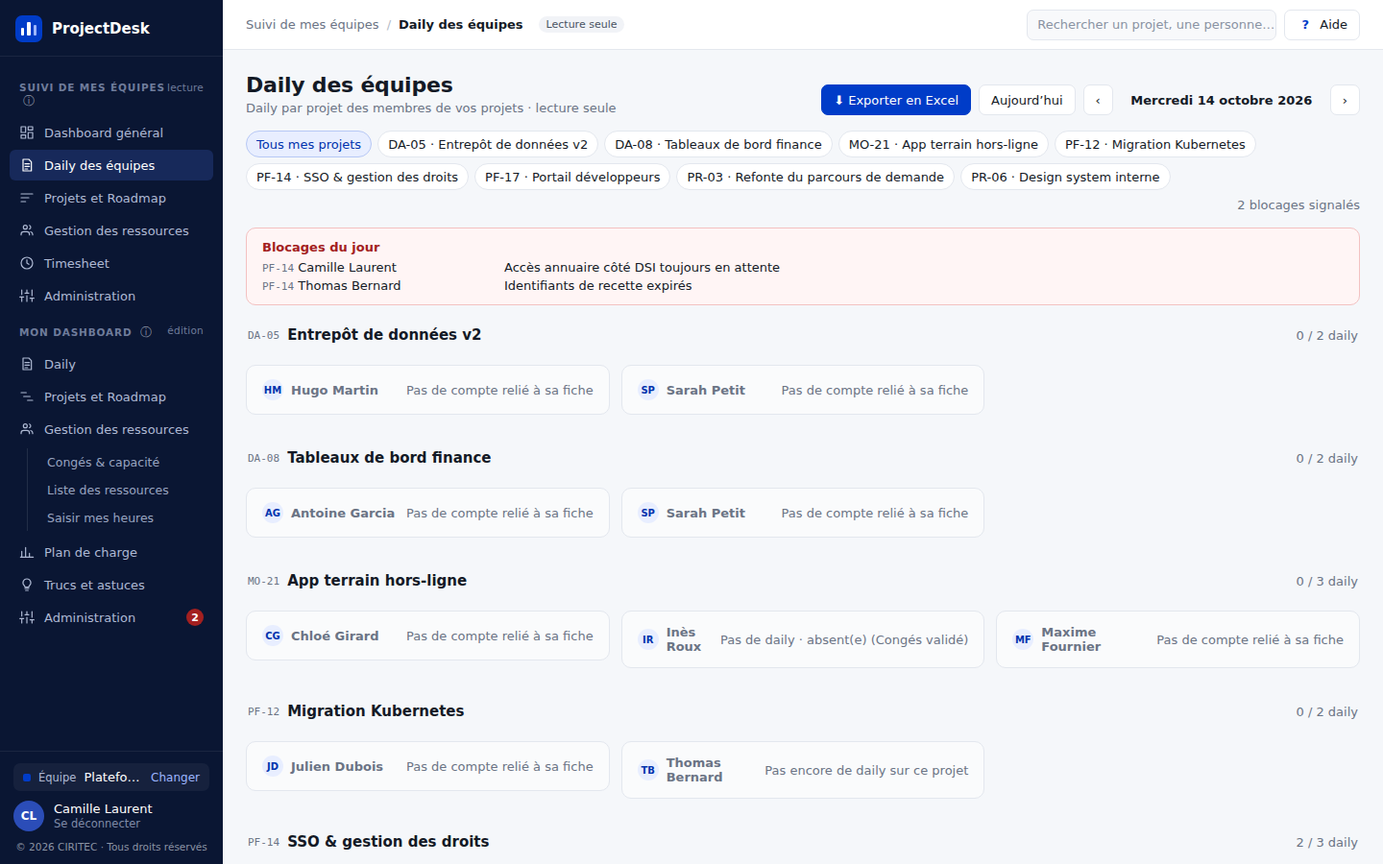
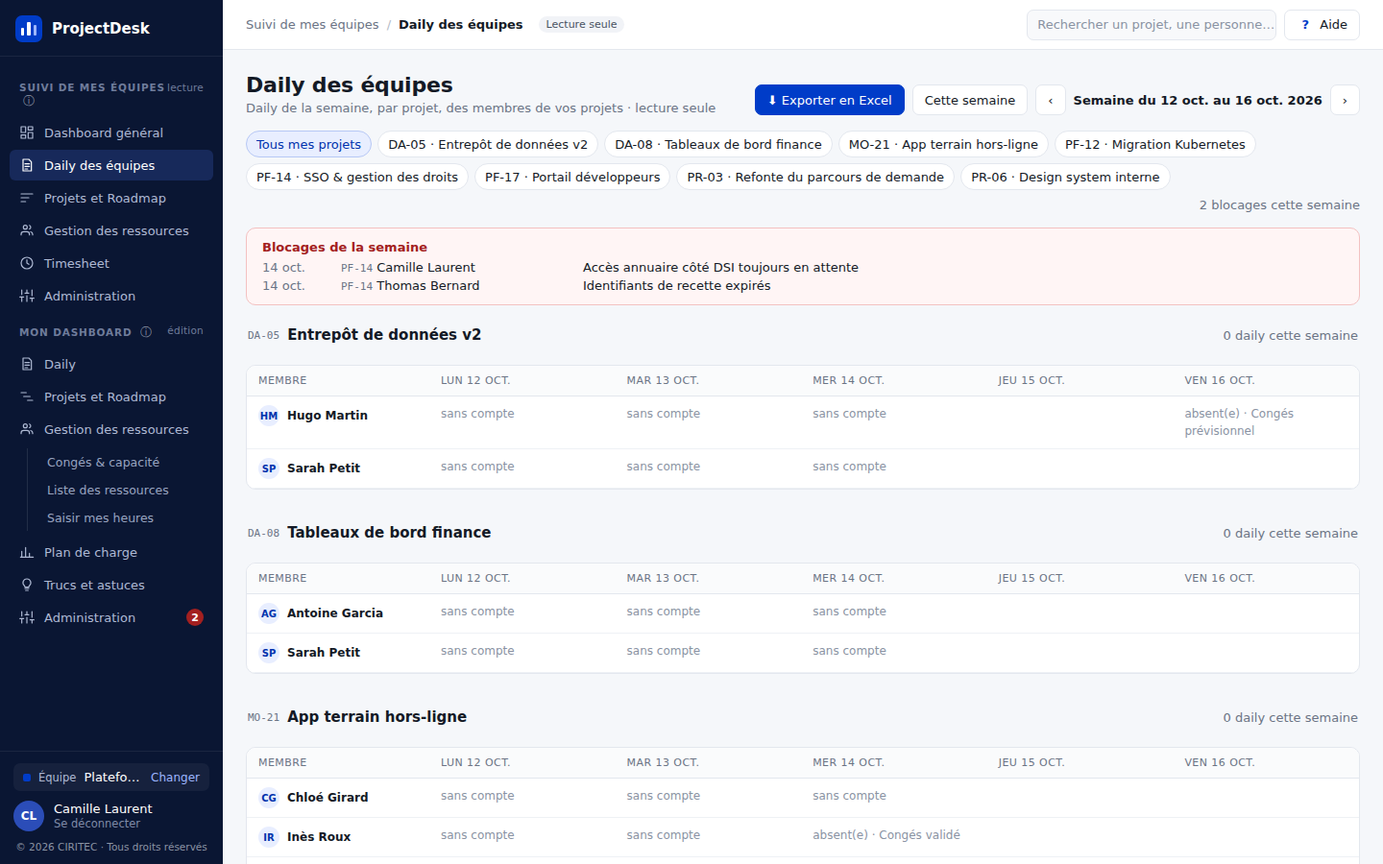
Daily des équipes à la semaine (membre × jour, blocages de la semaine) — DAT 2.13
Claude-Session: https://claude.ai/code/session_0187v8SY8uiT6dnWqjjqJYb6

diff --git a/app/js/ecrans/daily-equipes.js b/app/js/ecrans/daily-equipes.js
@@ -1,11 +1,11 @@
 /* ============================================================
    Suivi de mes équipes › Daily des équipes — daily PAR PROJET (maquette docs/maquettes/daily-par-projet/)
-   Pour le jour choisi, les dailies des projets que je peux lire (peutLireDailyProjet, même
+   Pour la semaine choisie (lundi → vendredi ouvrés, 2026-10-14), les dailies des projets que je peux lire (peutLireDailyProjet, même
    règle qu'en base) : les projets où je suis affecté(e) ; le responsable d'une unité voit
    tous les projets de son unité et des unités rattachées (ex. Anne, Applications) ; un
-   administrateur voit tout. Filtre par projet, « Blocages du jour » en tête, puis une carte
-   par membre (affecté hors Lecteur, présent ce jour-là) : sa note du projet, ou « pas de
-   daily » avec son absence éventuelle (Congés & capacité). Lecture seule.
+   administrateur voit tout. Filtre par projet, « Blocages de la semaine » en tête, puis par
+   projet un tableau membre × jour (affecté hors Lecteur, présent) : sa note, ou le motif
+   (absence de Congés & capacité, pas de daily, sans compte). Lecture seule.
    Export Excel (maquette docs/maquettes/export-daily-excel/) : fenêtre Modale.exportDaily,
    fichier fabriqué par Excel (excel.js) ; mêmes projets et mêmes règles qu'à l'écran.
    ============================================================ */
@@ -17,10 +17,22 @@ Ecrans.dailyEquipes = {
   jour: () => ui('dailyEquipes', { jour: Calculs.aujourdhui() }).jour,
   auChargement: () => recharger('notesProjet'),
 
+  /* Semaine affichée (porteur, 2026-10-14 : « affiche uniquement les daily de la semaine ») : les jours
+     ouvrés (hors week-end et fériés) de la semaine du jour choisi, du lundi au vendredi */
+  joursSemaine() {
+    const lundi = Calculs.lundi(this.jour());
+    return Calculs.joursOuvresEntre(lundi, Calculs.ajouterJours(lundi, 4), feries());
+  },
   // Membres d'un projet attendus au daily ce jour-là : affectés hors Lecteur et présents (arrivée / fin)
   membres(p, jour) {
     return etat.d.affectations.filter(a => a.projetId === p.id && a.role !== ROLES_PROJET.LECTEUR && estPresenteSur(a.ressourceId, jour))
       .map(a => ressource(a.ressourceId)).sort((x, y) => x.nom.localeCompare(y.nom));
+  },
+  // Membres présents au moins un jour de la semaine
+  membresSemaine(p, jours) {
+    const vus = new Map();
+    jours.forEach(j => this.membres(p, j).forEach(r => vus.set(r.id, r)));
+    return [...vus.values()].sort((x, y) => x.nom.localeCompare(y.nom));
   },
 
   // Note affichée : rubriques en gras, rubrique « Blocages » en rouge (sauf « Aucun »)
@@ -32,61 +44,70 @@ Ecrans.dailyEquipes = {
       return (r.titre ? `<b${style}>${esc(r.titre)}</b><br>` : '') + r.lignes.map(l => `<span${style}>- ${esc(l)}</span><br>`).join('');
     }).join('');
   },
+  // Note d'un membre sur un projet un jour donné (vide = pas de daily)
+  noteDe(r, p, jour) {
+    const n = noteProjet(auteurDaily(r), p.id, jour);
+    return n && n.texte.trim() ? n : null;
+  },
 
   rendre() {
-    const esc = C.esc, jour = this.jour();
-    const entete = C.entete('Daily des équipes', 'Daily par projet des membres de vos projets · lecture seule', `
+    const esc = C.esc, jours = this.joursSemaine(), lundi = Calculs.lundi(this.jour());
+    const libelle = `Semaine du ${Calculs.formatCourt(lundi)} au ${Calculs.formatAvecAnnee(Calculs.ajouterJours(lundi, 4))}`;
+    const entete = C.entete('Daily des équipes', 'Daily de la semaine, par projet, des membres de vos projets · lecture seule', `
       ${projetsDailyVisibles().length ? '<button class="btn primaire" data-action="ouvrirExportDaily">⬇ Exporter en Excel</button>' : ''}
-      <button class="btn" data-action="dailyEquipesAujourdhui">Aujourd’hui</button>
-      <button class="btn" data-action="dailyEquipesDecaler" data-sens="-1" title="Jour précédent">‹</button>
-      <b style="min-width:210px;text-align:center">${Calculs.formatLong(jour)}</b>
-      <button class="btn" data-action="dailyEquipesDecaler" data-sens="1" title="Jour suivant">›</button>`);
+      <button class="btn" data-action="dailyEquipesAujourdhui">Cette semaine</button>
+      <button class="btn" data-action="dailyEquipesDecaler" data-sens="-1" title="Semaine précédente">‹</button>
+      <b style="min-width:240px;text-align:center">${libelle}</b>
+      <button class="btn" data-action="dailyEquipesDecaler" data-sens="1" title="Semaine suivante">›</button>`);
     const visibles = projetsDailyVisibles();
     if (!visibles.length) return `<div class="ecran">${entete}<div class="carte">${C.vide('Aucun projet en cours dont vous pouvez lire le daily.')}</div></div>`;
 
     const filtre = ui('dailyEquipes', { projet: 'tous' }).projet;
     const projets = visibles.filter(p => filtre === 'tous' || p.id === filtre);
-    const noteDe = (r, p) => noteProjet(auteurDaily(r), p.id, jour);
-    const remplie = n => !!n && !!n.texte.trim();
-
-    // Blocages du jour, tous projets affichés
-    const blocages = projets.flatMap(p => this.membres(p, jour).filter(r => remplie(noteDe(r, p)))
-      .flatMap(r => Calculs.blocagesDaily(noteDe(r, p).texte).map(texte => ({ code: p.code, nom: r.nom, texte }))));
-
-    const puce = (id, libelle) => `<button class="puce${filtre === id ? ' active' : ''}" data-action="filtrerDailyEquipes" data-id="${id}">${esc(libelle)}</button>`;
+    const blocages = this.blocagesSemaine(projets, jours);
+    const puce = (id, nom) => `<button class="puce${filtre === id ? ' active' : ''}" data-action="filtrerDailyEquipes" data-id="${id}">${esc(nom)}</button>`;
     const puces = (visibles.length > 1 ? puce('tous', 'Tous mes projets') : '') + visibles.map(p => puce(p.id, `${p.code} · ${p.nom}`)).join('');
-
-    // Carte d'un membre : sa note du projet, ou « pas de daily » (avec son absence du jour si elle est posée)
-    const carte = (r, p) => {
-      const n = noteDe(r, p);
-      if (remplie(n)) return `<div class="carte encart-moyen">
-        <div class="ligne-flex" style="margin-bottom:8px">${C.avatar(r.nom)}<b class="extensible">${esc(r.nom)}</b>${C.code(p.code)}</div>
-        <div style="line-height:1.55">${this.note(n.texte)}</div></div>`;
-      const absence = absenceDe(r.id, jour);
-      const motif = absence ? `Pas de daily · absent(e) (${esc(absence.type)})` : r.userId ? 'Pas encore de daily sur ce projet' : 'Pas de compte relié à sa fiche';
-      return `<div class="carte" style="padding:14px 16px;background:var(--fond-entete)"><div class="ligne-flex">${C.avatar(r.nom)}
-        <b style="flex:1;color:var(--discret)">${esc(r.nom)}</b><span class="discret">${motif}</span></div></div>`;
-    };
-    const section = p => {
-      const membres = this.membres(p, jour), avec = membres.filter(r => remplie(noteDe(r, p)));
-      return `<div class="carte-titre" style="padding:6px 2px;border:0"><span class="ligne-flex">${C.code(p.code)}<h2 style="font-size:15px">${esc(p.nom)}</h2></span>
-          <span class="discret">${avec.length} / ${membres.length} daily</span></div>
-        <div style="display:grid;grid-template-columns:repeat(3,minmax(0,1fr));gap:12px;align-items:start;margin-bottom:14px">
-          ${[...avec, ...membres.filter(r => !avec.includes(r))].map(r => carte(r, p)).join('') || C.vide('Aucun membre présent ce jour.')}</div>`;
-    };
-
     return `
     <div class="ecran">
       ${entete}
       <div class="ligne-flex" style="flex-wrap:wrap"><div class="puces">${puces}</div><span class="extensible"></span>
-        <span class="discret">${blocages.length} blocage${blocages.length > 1 ? 's' : ''} signalé${blocages.length > 1 ? 's' : ''}</span></div>
-      ${blocages.length ? `<div class="carte encart-compact encart-blocages"><b class="texte-danger">Blocages du jour</b>
-        <div style="margin-top:6px;display:grid;grid-template-columns:240px 1fr;gap:4px 12px">${blocages.map(b => `<span>
-          ${C.code(b.code)} ${esc(b.nom)}</span><span>${esc(b.texte)}</span>`).join('')}</div></div>` : ''}
-      ${projets.map(section).join('')}
-      <div class="discret texte-12">Notes conservées à l’affichage sur ${JOURS_DAILY} jours. Vous voyez le daily de vos projets ;
+        <span class="discret">${blocages.length} blocage${blocages.length > 1 ? 's' : ''} cette semaine</span></div>
+      ${blocages.length ? `<div class="carte encart-compact encart-blocages"><b class="texte-danger">Blocages de la semaine</b>
+        <div style="margin-top:6px;display:grid;grid-template-columns:70px 240px 1fr;gap:4px 12px">${blocages.map(b => `
+          <span class="discret">${Calculs.formatCourt(b.jour)}</span><span>${C.code(b.code)} ${esc(b.nom)}</span><span>${esc(b.texte)}</span>`).join('')}</div></div>` : ''}
+      ${projets.map(p => this.sectionProjet(p, jours)).join('')}
+      <div class="discret texte-12">Notes conservées à l’affichage sur ${JOURS_DAILY} jours (au-delà : export Excel). Vous voyez le daily de vos projets ;
         le responsable d’une unité voit tous les projets de son unité.</div>
     </div>`;
+  },
+  // Blocages des notes de la semaine, tous projets affichés, du plus récent au plus ancien
+  blocagesSemaine(projets, jours) {
+    return [...jours].reverse().flatMap(jour => projets.flatMap(p => this.membres(p, jour).flatMap(r => {
+      const n = this.noteDe(r, p, jour);
+      return n ? Calculs.blocagesDaily(n.texte).map(texte => ({ jour, code: p.code, nom: r.nom, texte })) : [];
+    })));
+  },
+  /* Un projet : une ligne par membre, une colonne par jour ouvré de la semaine. Case : sa note, ou
+     le motif de l'absence de daily (absent(e), pas de daily, fiche sans compte) ; rien les jours à venir ou hors présence */
+  sectionProjet(p, jours) {
+    const esc = C.esc, membres = this.membresSemaine(p, jours), JOURS = ['Lun', 'Mar', 'Mer', 'Jeu', 'Ven'];
+    const nbNotes = membres.reduce((n, r) => n + jours.filter(j => this.noteDe(r, p, j)).length, 0);
+    const caseDe = (r, jour) => {
+      const n = this.noteDe(r, p, jour);
+      if (n) return `<td>${this.note(n.texte)}</td>`;
+      const absence = absenceDe(r.id, jour);
+      const aVenir = jour > Calculs.aujourdhui() && !absence;
+      const motif = aVenir || !estPresenteSur(r.id, jour) ? '' : absence ? `absent(e) · ${esc(absence.type)}` : r.userId ? '—' : 'sans compte';
+      return `<td class="pale texte-12">${motif}</td>`;
+    };
+    const entetes = jours.map(j => `<th>${JOURS[(Calculs.depuisIso(j).getDay() + 6) % 7]} ${Calculs.formatCourt(j)}</th>`).join('');
+    const lignes = membres.map(r => `<tr><td class="nowrap"><span class="ligne-flex">${C.avatar(r.nom)}<b>${esc(r.nom)}</b></span></td>
+      ${jours.map(j => caseDe(r, j)).join('')}</tr>`).join('');
+    return `<div class="carte-titre" style="padding:6px 2px;border:0"><span class="ligne-flex">${C.code(p.code)}<h2 style="font-size:15px">${esc(p.nom)}</h2></span>
+        <span class="discret">${nbNotes} daily cette semaine</span></div>
+      <div class="carte defilement-x" style="margin-bottom:14px;padding:0"><table class="tableau tableau-daily-semaine">
+        <thead><tr><th>Membre</th>${entetes}</tr></thead>
+        <tbody>${lignes || `<tr><td colspan="${jours.length + 1}">${C.vide('Aucun membre présent cette semaine.')}</td></tr>`}</tbody></table></div>`;
   }
 };
 
@@ -181,5 +202,6 @@ Object.assign(Actions, {
 
   filtrerDailyEquipes: d => majUi('dailyEquipes', { projet: d.id }),
   dailyEquipesAujourdhui: () => majUi('dailyEquipes', { jour: Calculs.aujourdhui() }),
-  dailyEquipesDecaler: d => majUi('dailyEquipes', { jour: Ecrans.daily.decaler(Ecrans.dailyEquipes.jour(), Number(d.sens)) })
+  // Semaine précédente / suivante
+  dailyEquipesDecaler: d => majUi('dailyEquipes', { jour: Calculs.ajouterJours(Ecrans.dailyEquipes.jour(), 7 * Number(d.sens)) })
 });

diff --git a/app/index.html b/app/index.html
@@ -11,7 +11,7 @@
 <link href="https://fonts.googleapis.com/css2?family=IBM+Plex+Sans:wght@400;500;600;700&family=IBM+Plex+Mono:wght@400;500&display=swap" rel="stylesheet">
 <!-- ?v= : version des fichiers (= version du DAT), à changer à chaque livraison : force le navigateur
      à recharger le code au lieu de réutiliser une ancienne copie en mémoire. -->
-<link rel="stylesheet" href="css/theme.css?v=2.12">
+<link rel="stylesheet" href="css/theme.css?v=2.13">
 </head>
 <body>
   <!-- Toute l'interface est dessinée dans #app par js/coquille.js et js/ecrans/*.js -->
@@ -19,33 +19,33 @@
   <div id="notification" class="notification" role="status"></div>
 
   <!-- Ordre de chargement : configuration, outils, état, puis écrans (qui s'enregistrent dans Ecrans) -->
-  <script src="js/config.js?v=2.12"></script>
-  <script src="js/api.js?v=2.12"></script>
-  <script src="js/calculs.js?v=2.12"></script>
-  <script src="js/etat.js?v=2.12"></script>
-  <script src="js/composants.js?v=2.12"></script>
-  <script src="js/coquille.js?v=2.12"></script>
-  <script src="js/panneau-projet.js?v=2.12"></script>
-  <script src="js/modale.js?v=2.12"></script>
-  <script src="js/excel.js?v=2.12"></script>
-  <script src="js/roles.js?v=2.12"></script>
-  <script src="js/simulation.js?v=2.12"></script>
-  <script src="js/ecrans/connexion.js?v=2.12"></script>
-  <script src="js/ecrans/choix-equipe.js?v=2.12"></script>
-  <script src="js/ecrans/dashboard.js?v=2.12"></script>
-  <script src="js/ecrans/projets.js?v=2.12"></script>
-  <script src="js/ecrans/ressources.js?v=2.12"></script>
-  <script src="js/ecrans/administration.js?v=2.12"></script>
-  <script src="js/ecrans/timesheet.js?v=2.12"></script>
-  <script src="js/ecrans/daily-equipes.js?v=2.12"></script>
-  <script src="js/ecrans/daily.js?v=2.12"></script>
-  <script src="js/ecrans/mes-projets.js?v=2.12"></script>
-  <script src="js/ecrans/conges.js?v=2.12"></script>
-  <script src="js/ecrans/capacite.js?v=2.12"></script>
-  <script src="js/ecrans/liste-ressources.js?v=2.12"></script>
-  <script src="js/ecrans/mon-timesheet.js?v=2.12"></script>
-  <script src="js/ecrans/previsionnel.js?v=2.12"></script>
-  <script src="js/ecrans/mon-admin.js?v=2.12"></script>
-  <script src="js/ecrans/astuces.js?v=2.12"></script>
+  <script src="js/config.js?v=2.13"></script>
+  <script src="js/api.js?v=2.13"></script>
+  <script src="js/calculs.js?v=2.13"></script>
+  <script src="js/etat.js?v=2.13"></script>
+  <script src="js/composants.js?v=2.13"></script>
+  <script src="js/coquille.js?v=2.13"></script>
+  <script src="js/panneau-projet.js?v=2.13"></script>
+  <script src="js/modale.js?v=2.13"></script>
+  <script src="js/excel.js?v=2.13"></script>
+  <script src="js/roles.js?v=2.13"></script>
+  <script src="js/simulation.js?v=2.13"></script>
+  <script src="js/ecrans/connexion.js?v=2.13"></script>
+  <script src="js/ecrans/choix-equipe.js?v=2.13"></script>
+  <script src="js/ecrans/dashboard.js?v=2.13"></script>
+  <script src="js/ecrans/projets.js?v=2.13"></script>
+  <script src="js/ecrans/ressources.js?v=2.13"></script>
+  <script src="js/ecrans/administration.js?v=2.13"></script>
+  <script src="js/ecrans/timesheet.js?v=2.13"></script>
+  <script src="js/ecrans/daily-equipes.js?v=2.13"></script>
+  <script src="js/ecrans/daily.js?v=2.13"></script>
+  <script src="js/ecrans/mes-projets.js?v=2.13"></script>
+  <script src="js/ecrans/conges.js?v=2.13"></script>
+  <script src="js/ecrans/capacite.js?v=2.13"></script>
+  <script src="js/ecrans/liste-ressources.js?v=2.13"></script>
+  <script src="js/ecrans/mon-timesheet.js?v=2.13"></script>
+  <script src="js/ecrans/previsionnel.js?v=2.13"></script>
+  <script src="js/ecrans/mon-admin.js?v=2.13"></script>
+  <script src="js/ecrans/astuces.js?v=2.13"></script>
 </body>
 </html>

diff --git a/tests/parcours.js b/tests/parcours.js
@@ -202,7 +202,15 @@ const verifier = (nom, condition, detail = '') => { resultats.push({ nom, ok: !!
     // Daily des équipes PAR PROJET (migration 018) : notes du projet, blocages, règle de lecture
     await aller('dailyEquipes'); await page.waitForTimeout(300); await capture('17-daily-equipes');
     verifier('Daily des équipes : note d’un coéquipier sur un projet commun visible', (await texte()).includes('Mapping des rôles applicatifs'));
-    verifier('Daily des équipes : blocages du jour regroupés (avec le projet)', (await texte()).includes('Blocages du jour') && (await texte()).includes('Identifiants de recette expirés'));
+    verifier('Daily des équipes : blocages de la semaine regroupés (avec le projet)', (await texte()).includes('Blocages de la semaine') && (await texte()).includes('Identifiants de recette expirés'));
+    // À la semaine (porteur, 2026-10-14) : une colonne par jour ouvré, ‹ › change de semaine
+    verifier('Daily des équipes : une colonne par jour ouvré de la semaine', await page.evaluate(() =>
+      document.querySelector('.tableau-daily-semaine thead tr').children.length === Ecrans.dailyEquipes.joursSemaine().length + 1));
+    await page.click('[data-action="dailyEquipesDecaler"][data-sens="-1"]'); await page.waitForTimeout(200);
+    const semainePrecedente = await page.evaluate(() => Calculs.lundi(Ecrans.dailyEquipes.jour()) === Calculs.ajouterJours(Calculs.lundi(Calculs.aujourdhui()), -7)
+      && !document.body.textContent.includes('Mapping des rôles applicatifs'));
+    await page.click('[data-action="dailyEquipesAujourdhui"]'); await page.waitForTimeout(200);
+    verifier('Daily des équipes : semaine précédente puis « Cette semaine »', semainePrecedente && (await texte()).includes('Mapping des rôles applicatifs'));
     verifier('Daily des équipes : seulement mes projets et ceux des unités (et sous-unités) dont je suis responsable', await page.evaluate(() => {
       // Camille est administratrice dans les données simulées : on vérifie la règle comme non-administratrice.
       // Elle est responsable de Plateforme (Data y est rattachée) et affectée à PR-03 ; Mobile et PR-06 ne la concernent pas.

diff --git a/app/css/theme.css b/app/css/theme.css
@@ -418,3 +418,7 @@ select.champ-compact { width: auto; height: 30px; } select.champ-mini { width: a
 select.niveau-oui { background: #E3F5EC; color: #0B6B4F; font-weight: 600; }
 select.niveau-lecture { background: #FFF3E0; color: #8A4B00; font-weight: 600; }
 select.niveau-non { color: var(--pale); }
+/* Daily des équipes à la semaine : une colonne par jour, notes compactes alignées en haut */
+.tableau-daily-semaine { table-layout: fixed; min-width: 900px; }
+.tableau-daily-semaine th:first-child { width: 190px; }
+.tableau-daily-semaine td { vertical-align: top; font-size: 12px; line-height: 1.5; overflow-wrap: anywhere; }

diff --git a/docs/DAT.md b/docs/DAT.md
@@ -127,6 +127,7 @@
 | 2.10    | 2026-10-13 | **Rattacher une personne existante à une équipe, même sans projet** (porteur : « je veux pouvoir affecter des membres à l'équipe même sans qu'il y ait de projet » ; maquette `membres-equipe/` validée). « + Personne existante » (administrateur ou responsable de l'équipe, droit « affecter ») ouvre une fenêtre avec toutes les personnes de l'application et leur équipe d'origine ; la personne s'affiche dans **Membres de l'équipe**, section « Rattachées depuis une autre équipe » (badge « Équipe d'origine »), et **garde son équipe** (`ressources.equipe_id` inchangé) ; « Retirer » supprime le rattachement seul. Le rattachement ne donne aucun droit et ne compte pas dans Congés & capacité de l'équipe (pas de double compte). Remplace la fenêtre d'affectation filtrée de la 2.09. **Migration 033** (sauvegarde `sauvegarde-avant-033`, données comptées avant / après, identiques) : table `membres_equipe` ; `rattachesA`, `peutRattacherA` (`etat.js`) (§ 3.3, § 4, § 5) |
 | 2.11    | 2026-10-13 | Liste des ressources › équipe : **légende des rôles d'accès retirée** sous « Membres de l'équipe » (porteur : « ça c'est dans l'aide, je ne veux plus le voir ici ») ; l'explication reste dans l'aide (ⓘ de la colonne Accès) et dans Administration › Rôles. Aucune donnée modifiée (§ 3.3) |
 | 2.12    | 2026-10-14 | **Import du CR Daily Excel** (`CR_Daily_final_2.xlsx`, porteur : « prends mon fichier Daily et intègre-le », choix : rattacher à la fiche, projet Digital, répartition IA selon le texte). 285 dailys du 26/05 au 14/10/2026 au format Hier / Aujourd'hui / Blocages (211 lignes vides ignorées) : Lenaic 90, Nouha 75, Christelle 115 (CDO 66, **Digital** 49), Cerine 5 ; lignes « - IA » réparties par mots-clés (chatbot, VDV / vie de ville, prixo, pdc). Projet **APP-03 Digital** créé (Applications, Christelle Chef de projet). **Migration 034** (instantané `sauvegarde-avant-034-import-daily`, la limite de branches étant atteinte ; empreinte des 285 textes identique au fichier) : daily d'une personne sans compte = auteur `fiche:<id>` ; déclencheur `ressources_transferer_daily` qui passe ces dailys sur son compte quand il est relié. Daily des équipes et export Excel : `auteurDaily` (`etat.js`). Limites : l'écran ne montre que les 90 derniers jours (export Excel pour juin-juillet) ; l'envoi par e-mail ne lit pas les dailys « fiche: » (§ 3, § 4) |
+| 2.13    | 2026-10-14 | **Daily des équipes à la semaine** (porteur : « affiche uniquement les daily de la semaine » ; maquette `daily-semaine/` validée) : semaine du jour choisi (lundi → vendredi ouvrés, hors fériés : `joursSemaine`), « Cette semaine » et ‹ › par semaine ; par projet un tableau membre × jour (note, ou motif : absent(e), « — », sans compte ; vide les jours à venir) ; « Blocages de la semaine » datés. Export Excel inchangé. Aucune donnée modifiée (§ 3.2) |
 | 1.44    | 2026-09-27 | Calcul type Scrum : formule déplacée dans une pop-in (bouton « Comment est-ce calculé ? » en haut à droite), avec un exemple chiffré sur CDO (membres, jours ouvrés, absences, cérémonies, focus) (§ 2.1, § 3.3) |
 
 ---
@@ -234,7 +235,7 @@ Captures de l'application : `docs/maquettes/etat-actuel/` (générées par `test
 | `ressources` | `ressources.js` | Calendrier mensuel des absences (composant `Calendrier`, personnes présentes sur le mois) + annuaire de **toutes** les fiches avec colonne **Statut** (Actif / Inactif dès qu'une date de fin est saisie, « fin le … », inactifs grisés en fin de liste) | `05-ressources.png` |
 | `administration` | `administration.js` | Onglets Équipes / Référentiels / Champs, **consultation** (lien vers Mon dashboard › Administration pour les administrateurs) | `06-administration.png` |
 | `timesheet` | `timesheet.js` | Feuilles **du mois** par personne, toutes équipes (navigation `MoisTemps`) : projets, saisi / attendu, complétude, statut (`tableauFeuilles`). **Suivi et validation** (depuis 1.89, maquette `menus-general/`) : le responsable d'une équipe y **valide ou renvoie** les feuilles soumises de ses équipes (seule écriture de la section) ; indicateur « Feuilles à valider » | `07-timesheet.png`, `20-timesheet-validation.png` |
-| `dailyEquipes` | `daily-equipes.js` | **Daily par projet** du jour (maquette `daily-par-projet/`) : seulement les projets que je peux lire (`peutLireDailyProjet` = règle `peut_lire_daily_projet` en base : affecté(e) au projet ; responsable de l'unité du projet ou d'une unité parente, ex. Anne pour Applications ; administrateur) ; filtre par projet, « Blocages du jour » (avec le projet), par projet une carte par membre affecté hors Lecteur et présent ce jour-là : sa note, ou « pas de daily » avec son absence (congés). **Exporter en Excel** (maquette `export-daily-excel/`) : période (raccourcis ou dates libres, un an maximum) et projets cochés parmi ceux que je peux lire ; onglet « Daily » = une ligne par membre attendu, projet et jour ouvré (Date, Code projet, Projet, Personne, Statut Renseigné / Absent(e) / Manquant / Sans compte, Hier, Aujourd'hui, Blocages, Absence), onglet « Blocages » en option ; notes lues en base pour la période (la RLS ne renvoie que les notes lisibles). Lecture seule : rien n'est écrit | `17-daily-equipes.png`, `22-export-daily-excel.png` |
+| `dailyEquipes` | `daily-equipes.js` | **Daily par projet** de la semaine (maquette `daily-par-projet/`, à la semaine depuis 2.13 : `daily-semaine/`) : seulement les projets que je peux lire (`peutLireDailyProjet` = règle `peut_lire_daily_projet` en base : affecté(e) au projet ; responsable de l'unité du projet ou d'une unité parente, ex. Anne pour Applications ; administrateur) ; filtre par projet, « Blocages de la semaine » (datés, avec le projet), par projun tableau membre (affecté hors Lecteur, présent dans la semaine) × jour ouvré : sa note, ou le motif (absent(e), « — », sans compte ; vide les jours à venir) ; « Cette semaine », ‹ › par semaine. **Exporter en Excel** (maquette `export-daily-excel/`) : période (raccourcis ou dates libres, un an maximum) et projets cochés parmi ceux que je peux lire ; onglet « Daily » = une ligne par membre attendu, projet et jour ouvré (Date, Code projet, Projet, Personne, Statut Renseigné / Absent(e) / Manquant / Sans compte, Hier, Aujourd'hui, Blocages, Absence), onglet « Blocages » en option ; notes lues en base pour la période (la RLS ne renvoie que les notes lisibles). Lecture seule : rien n'est écrit | `17-daily-equipes.png`, `22-export-daily-excel.png` |
 
 ### 3.3 Section « Mon dashboard » (édition)
 
@@ -479,7 +480,7 @@ refusée sur `referentiels` et `administrateurs` (usurpation).
 | Outil | Contenu |
 |-------|---------|
 | `tests/serveur-simule.js` | Neon Auth (dont Google simulé) + Data API simulés en mémoire, identifiants numérotés (et non aléatoires) pour des captures reproductibles, données de la maquette (comptes `camille@test.fr` administratrice/owner, `thomas@test.fr` membre, `elodie@test.fr` demandeuse, `admin@test.fr` administratrice sans équipe ; mot de passe `motdepasse`) |
-| `tests/parcours.js` | Parcours Playwright de bout en bout (125 contrôles, dont « Suivi de mes équipes en lecture seule », l'aller-retour Google simulé, le parcours administrateur sans équipe, le daily des équipes, l'export Excel du daily, le plan de charge et le board des ressources) + captures `docs/maquettes/etat-actuel/` |
+| `tests/parcours.js` | Parcours Playwright de bout en bout (127 contrôles, dont « Suivi de mes équipes en lecture seule », l'aller-retour Google simulé, le parcours administrateur sans équipe, le daily des équipes, l'export Excel du daily, le plan de charge et le board des ressources) + captures `docs/maquettes/etat-actuel/` |
 | `scripts/verifier-docs.js` | Cohérence documentation ↔ code après chaque commit (§ 11) |
 
 Les règles RLS ne sont pas simulées : elles sont vérifiées en base et lors de la recette réelle.
